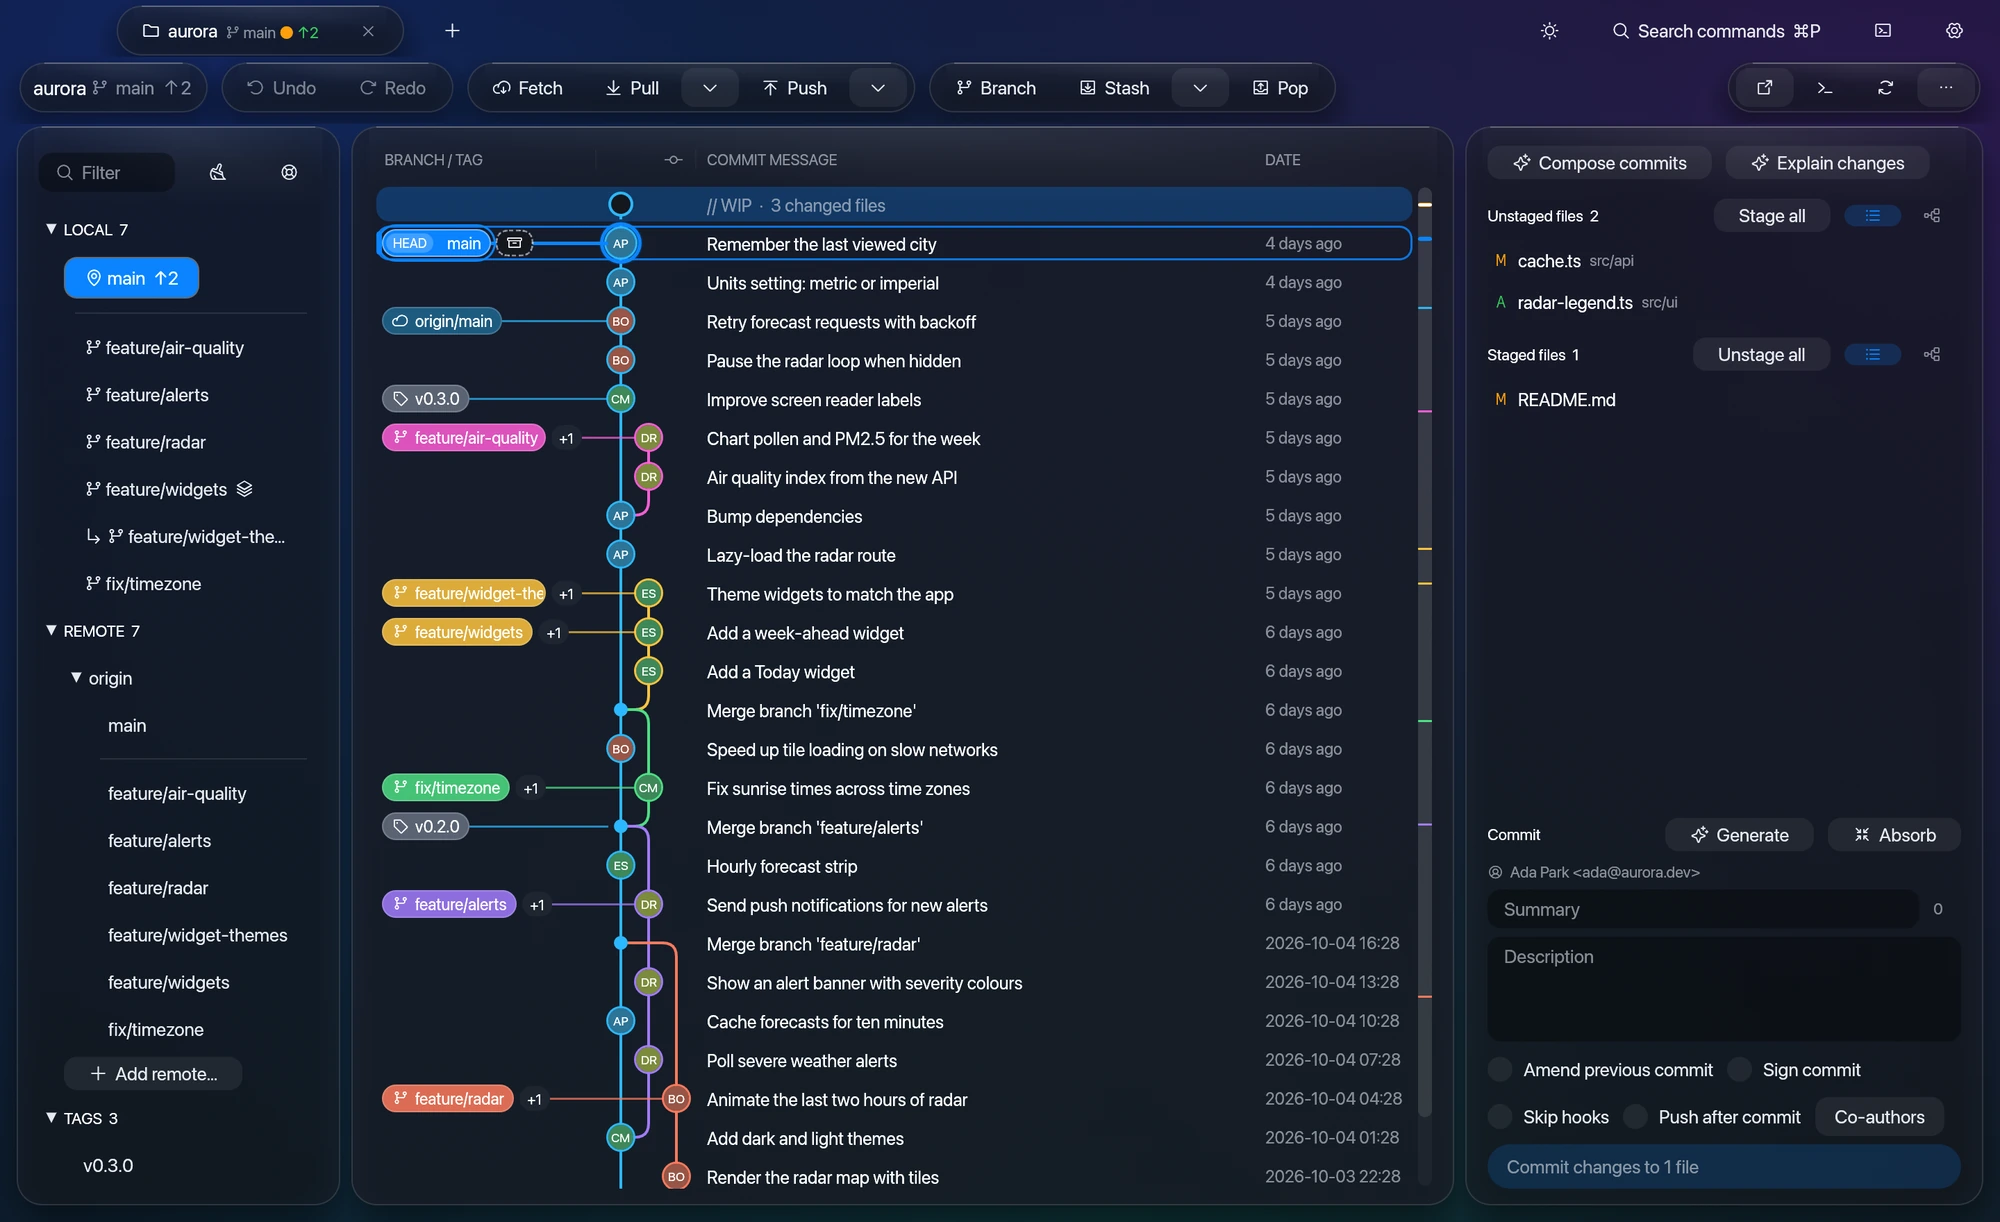
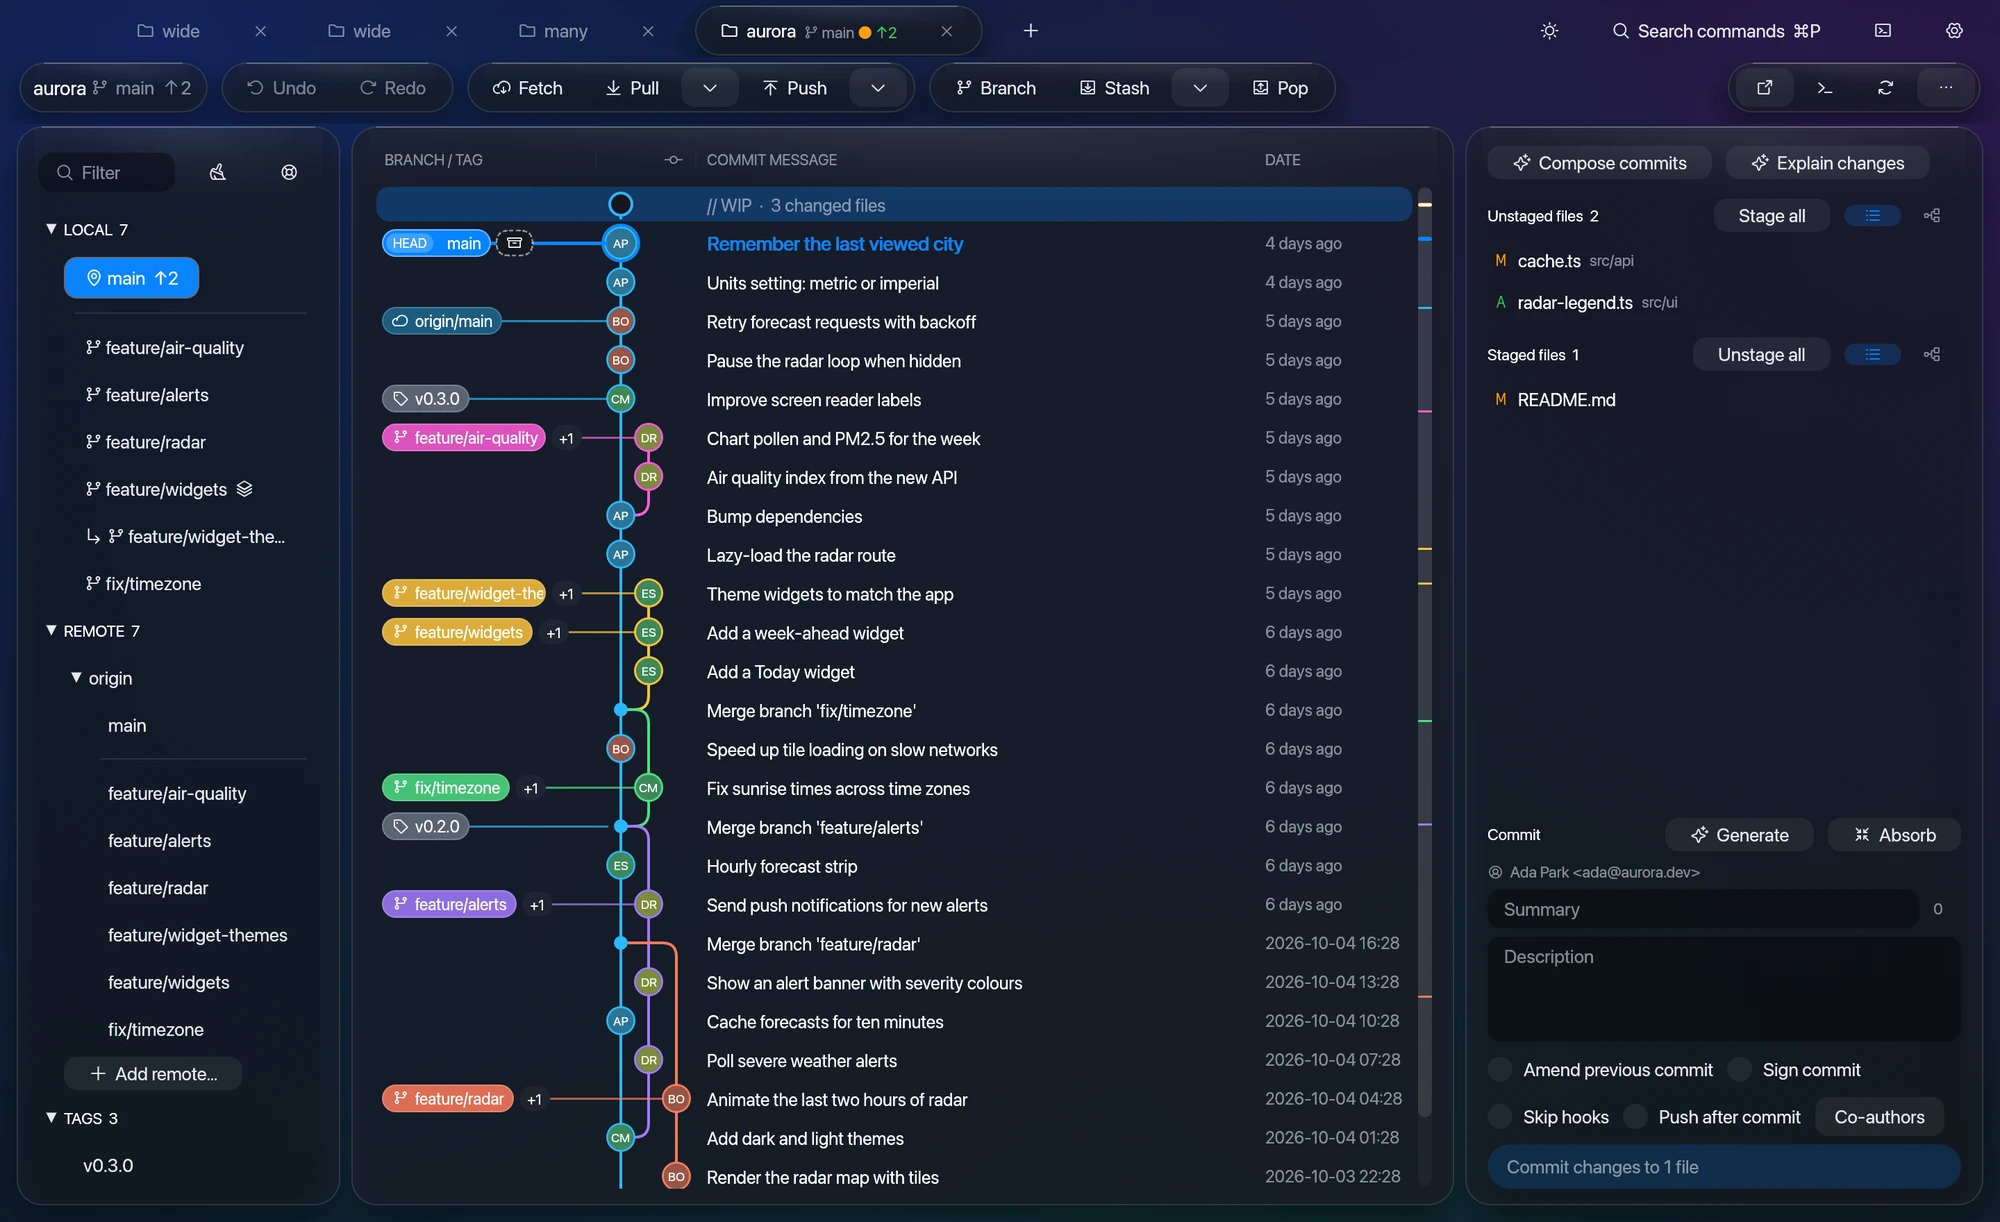
Mark HEAD with a bold accent title instead of row borders
The outline, side bar and ring overlapped neighbouring borders. HEAD's commit
title is now larger, bold and accent-coloured; the HEAD badge and jump chip stay.

diff --git a/src/ui/graph_view/mod.rs b/src/ui/graph_view/mod.rs
@@ -117,8 +117,8 @@ pub fn show(
     // Reachability, links and menus ask the full history: the filtered graph lacks the commits between hits.
     // A hit older than the loaded page isn't in `all`: a complete ancestry rules it out, else git is asked.
     let full_row = |r: usize| if filtered.is_none() { Some(r) } else { d.commit(r).and_then(|c| all.row_of.get(&c.id).copied()) };
-    // HEAD: its row gets an outline + bar (the selection is a fill), a glowing node and a branch pill
-    // marked HEAD; detached, a solid "detached HEAD" chip before the message instead of the pill.
+    // HEAD: a larger, bold, accent-coloured title, a ringed node and a branch pill marked HEAD;
+    // detached, a solid "detached HEAD" chip before the message instead of the pill.
     let head_row = d.status.head.as_deref().and_then(|h| d.row_of.get(h)).copied();
     let detached = d.status.branch.is_none();
     let hc = theme::accent();
@@ -243,12 +243,6 @@ pub fn show(
                 let resp = ui.interact(rect, ui.id().with(("row", r)), if commit.is_some() { Sense::click_and_drag() } else { Sense::click() });
                 let pill = rect.shrink2(vec2(2.0, 1.5));
                 let in_multi = commit.is_some_and(|c| multi.contains(&c.id));
-                if Some(r) == head_row {
-                    // Outline + bar, no fill: the selection is the fill, so HEAD and selected never look alike.
-                    let hc = if dims(r) { hc.gamma_multiply(0.3) } else { hc };
-                    ui.painter().rect_stroke(pill, 9.0, Stroke::new(1.5, hc.gamma_multiply(0.85)), egui::StrokeKind::Inside);
-                    ui.painter().rect_filled(Rect::from_min_size(pill.min + vec2(0.0, 4.0), vec2(4.0, pill.height() - 8.0)), 2.0, hc);
-                }
                 if Some(r) == sel_row || in_multi {
                     ui.painter().rect_filled(pill, 9.0, theme::selection(ui));
                 } else if resp.hovered() {
@@ -343,9 +337,7 @@ pub fn show(
                 let is_head = Some(r) == head_row;
                 let hc = if faded { hc.gamma_multiply(0.3) } else { hc };
                 if is_head {
-                    gp.circle_filled(c, 16.0, hc.gamma_multiply(0.12));
-                    gp.circle_filled(c, 13.5, hc.gamma_multiply(0.2));
-                    gp.circle_stroke(c, 12.5, Stroke::new(2.5, hc));
+                    gp.circle_stroke(c, 12.0, Stroke::new(2.0, hc));
                 }
                 match commit {
                     None => {
@@ -398,10 +390,6 @@ pub fn show(
                         RefKind::Tag if faded => theme::tag(ui).gamma_multiply(0.4),
                         RefKind::Tag => theme::tag(ui),
                     };
-                    if head_pill {
-                        // A crisp ring a gap away: sets it apart from a same-coloured lane pill.
-                        painter.rect_stroke(pill.expand(3.5), 13.5, Stroke::new(1.5, hc), egui::StrokeKind::Inside);
-                    }
                     painter.rect_filled(pill, 10.0, fill);
                     painter.rect_stroke(pill, 10.0, Stroke::new(1.0, Color32::from_white_alpha(if head_pill { 110 } else { 45 })), egui::StrokeKind::Inside);
                     if cap_w > 0.0 {
@@ -501,7 +489,15 @@ pub fn show(
                             let c = crate::ui::bisect::mark_color(m);
                             x_text = chip(&mp, x_text, ty, m, c, c.gamma_multiply(0.2));
                         }
-                        painter.with_clip_rect(msg_clip).text(pos2(x_text, ty), Align2::LEFT_CENTER, &cm.summary, body.clone(), text);
+                        if Some(r) == head_row {
+                            // HEAD's title: larger, in the accent colour, faux-bold (drawn twice, half a px apart).
+                            let (f, c) = (FontId::proportional(14.5), if faded { hc.gamma_multiply(0.35) } else { hc });
+                            for dx in [0.0, 0.6] {
+                                mp.text(pos2(x_text + dx, ty), Align2::LEFT_CENTER, &cm.summary, f.clone(), c);
+                            }
+                        } else {
+                            mp.text(pos2(x_text, ty), Align2::LEFT_CENTER, &cm.summary, body.clone(), text);
+                        }
                         let small = FontId::proportional(12.0);
                         painter.with_clip_rect(Rect::from_x_y_ranges(x_author..=(x_date - 8.0).max(x_author), msg_clip.y_range())).text(
                             pos2(x_author + 8.0, ty),
